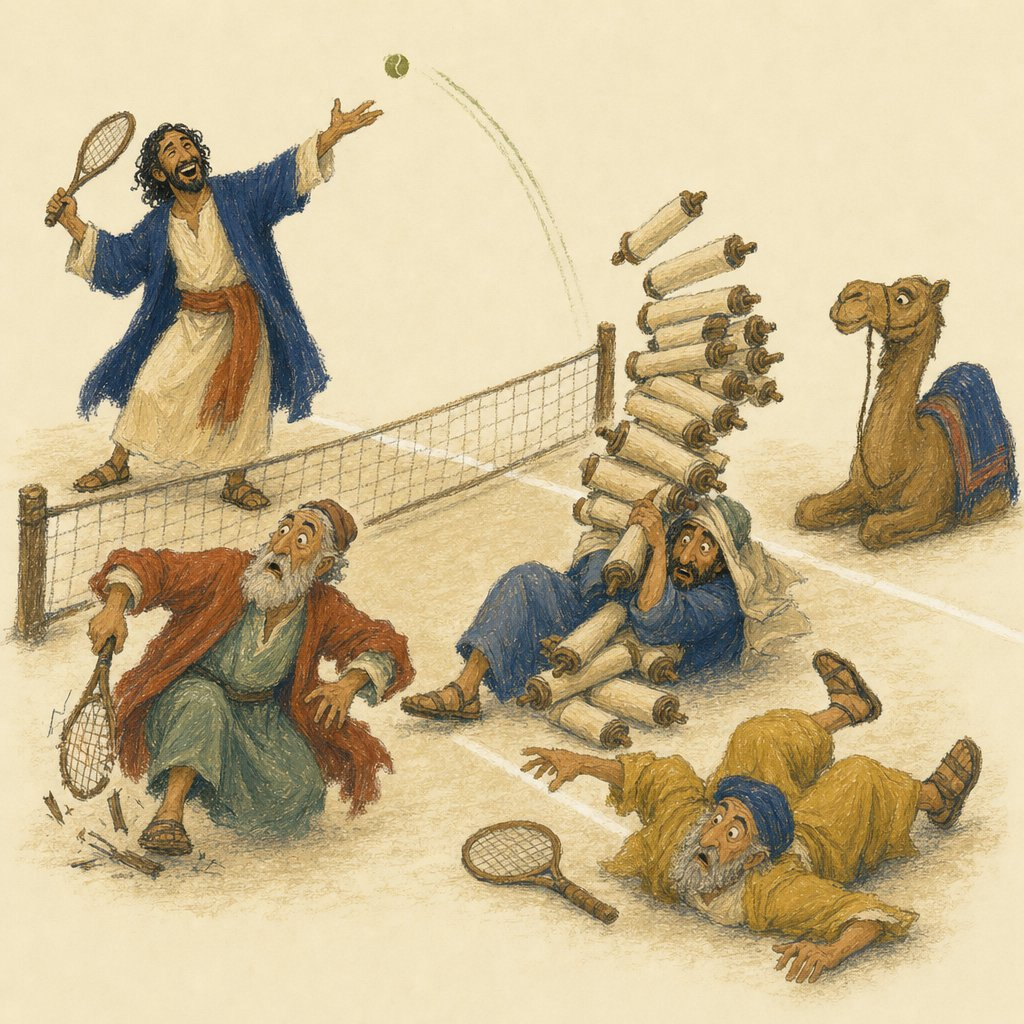
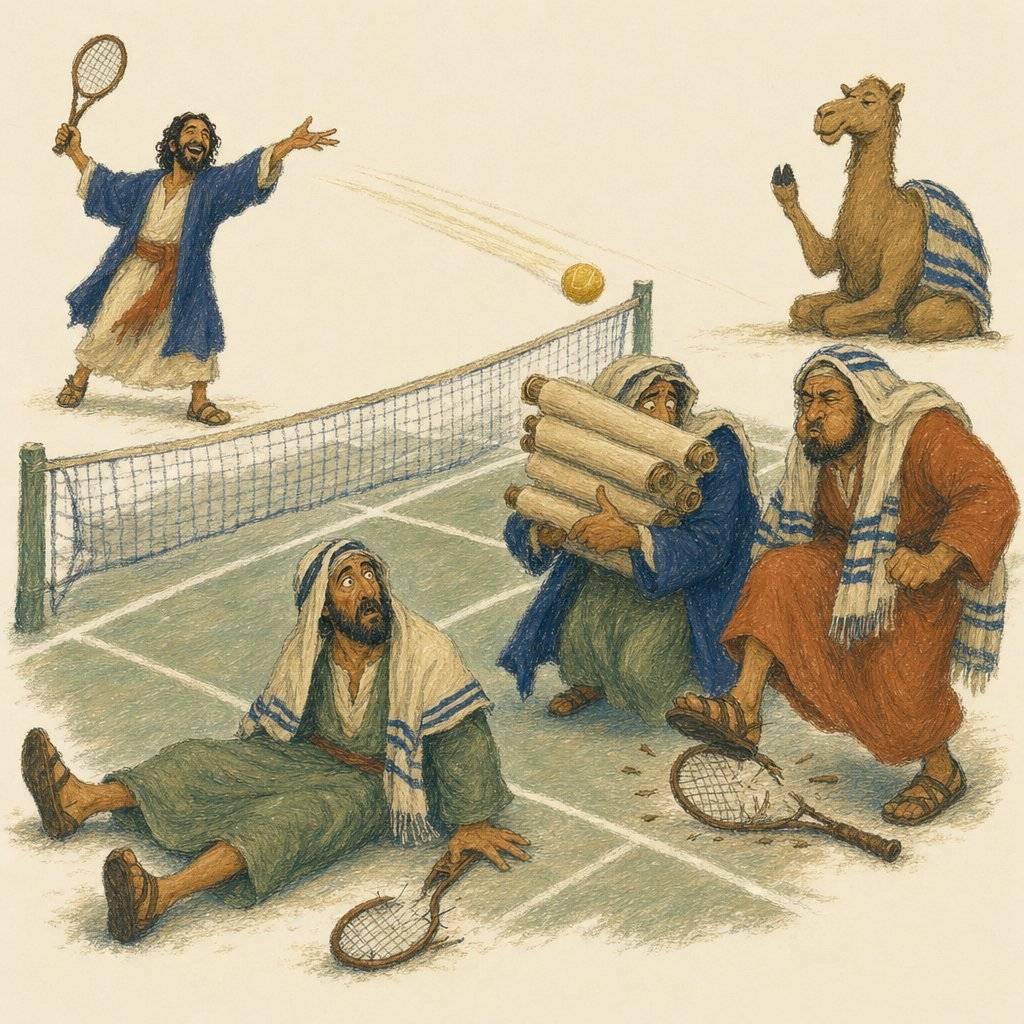
Fix reflections, anatomy and cross placement in four illustrations

diff --git a/book/index.html b/book/index.html
@@ -31,7 +31,7 @@ missing, or does any picture not fit how you tell the story?</p>
 <a href="img/02-cana-tasting.jpg"><img src="img/02-cana-tasting.jpg" loading=lazy></a>
 <div><h3>The Best Wine Ever</h3>
 <p class=meta>Full page</p>
-<p>Show the miracle through astonishment, not through Jesus beside jars. The master of the feast, a round-bellied man with a pompous moustache, has just sipped. His eyebrows shoot up, his cheeks puff and his eyes cross with delight. In his cup we glimpse his own face reflected, lit up and astonished. Around him, the servants who filled the jars with water huddle with hands over their mouths, trying not to burst out laughing. A girl peeks out from under a table. Wedding guests dance in the background. Far off at the edge, Jesus leans against a doorpost chatting, and Mary gives Him a sideways look.</p></div></div><h2>John 3 — You Come From Above!</h2><div class=card>
+<p>Show the miracle through astonishment, not through Jesus beside jars. The master of the feast, a round-bellied man with a pompous moustache, has just sipped. His eyebrows shoot up, his cheeks puff and his eyes cross with delight. The wine in his cup glows with a warm mustard-gold light. Around him, the servants who filled the jars with water huddle with hands over their mouths, trying not to burst out laughing. A girl peeks out from under a table. Wedding guests dance in the background. Far off at the edge, Jesus leans against a doorpost chatting, and Mary gives Him a sideways look.</p></div></div><h2>John 3 — You Come From Above!</h2><div class=card>
 <a href="img/03-portrait-nicodemus.jpg"><img src="img/03-portrait-nicodemus.jpg" loading=lazy></a>
 <div><h3>Nicodemus Comes at Night</h3>
 <p class=meta>Portrait</p>
@@ -39,7 +39,7 @@ missing, or does any picture not fit how you tell the story?</p>
 <a href="img/04-well-reflection.jpg"><img src="img/04-well-reflection.jpg" loading=lazy></a>
 <div><h3>If You Knew Who I Am</h3>
 <p class=meta>Full page</p>
-<p>Seen from slightly above, the round stone mouth of the well fills the lower half of the picture. The Samaritan woman leans over its rim with both hands on the stone, her water jar set down beside her, looking down into the dark water. There, her reflection looks back at her lit with a soft golden glow, open and smiling, not guarded like her real face, which is just beginning to soften in surprise. Jesus sits on the far side of the rim, elbows on his knees, watching her with warm, steady, unhurried eyes. Just two people and the well; noon heat suggested by bleached cream space. No bucket, no pouring.</p></div></div><h2>John 6 — Bread That Is Always Enough</h2><div class=card>
+<p>We look over the Samaritan woman&#x27;s shoulder from behind and slightly above: we see her back, headscarf and arms as she leans over the rim of the round stone well, hands on the stone, her water jar set down beside her. Below her, in the dark still water, her reflection looks up at us: her own face, mirrored and upside down in the frame (top of her head nearest to us, chin toward the far side), lit with a soft golden glow and smiling openly. It must read as a true reflection on the water&#x27;s surface, not a picture inside the well. On the far side of the rim sits Jesus, facing us and her, elbows on his knees, watching her with warm, steady, unhurried eyes. Just two people and the well; noon heat suggested by bleached cream space. No bucket, no pouring.</p></div></div><h2>John 6 — Bread That Is Always Enough</h2><div class=card>
 <a href="img/06-portrait-boy.jpg"><img src="img/06-portrait-boy.jpg" loading=lazy></a>
 <div><h3>The Boy with the Lunch</h3>
 <p class=meta>Portrait</p>
@@ -51,7 +51,7 @@ missing, or does any picture not fit how you tell the story?</p>
 <a href="img/07-law-tennis.jpg"><img src="img/07-law-tennis.jpg" loading=lazy></a>
 <div><h3>Law Tennis</h3>
 <p class=meta>Small picture</p>
-<p>A comic sketch of a tennis court in a dusty courtyard with a sagging net. On one side, Jesus serves an easy, relaxed ace, laughing, and the ball whizzes past. On the other side, three robed religious leaders tangle themselves trying to return it. One is stamping on his broken racket, one is buried in a stack of heavy scrolls he&#x27;s using as a racket, and one has fallen over. A camel watches from the side like a line judge. Keep it affectionate, not mocking of Jewish people.</p></div></div><h2>John 8 — The Light and No More Stones</h2><div class=card>
+<p>A comic sketch of a tennis court in a dusty courtyard with a sagging net. On one side, Jesus serves an easy, relaxed ace, laughing, and the ball whizzes past. On the other side, three robed religious leaders tangle themselves trying to return it. One is stamping on his broken racket, one is buried in a stack of heavy scrolls he&#x27;s using as a racket, and one has sat down hard on the ground, legs sticking straight out in front of him, dazed, racket still in hand. A camel watches from the side like a line judge. Keep it affectionate, not mocking of Jewish people.</p></div></div><h2>John 8 — The Light and No More Stones</h2><div class=card>
 <a href="img/08-no-condemnation.jpg"><img src="img/08-no-condemnation.jpg" loading=lazy></a>
 <div><h3>Neither Do I</h3>
 <p class=meta>Full page</p>
@@ -79,7 +79,7 @@ missing, or does any picture not fit how you tell the story?</p>
 <a href="img/19-mary-john-cross.jpg"><img src="img/19-mary-john-cross.jpg" loading=lazy></a>
 <div><h3>Look After My Mother</h3>
 <p class=meta>Full page</p>
-<p>Seen from low and slightly behind, Mary and young John stand close together at the foot of the cross. Only the bottom of the wooden cross is visible, rising out of the top of the page. John, gangly and young, has his arm wrapped around Mary&#x27;s shoulders, and she leans her head into him, her hand over her mouth. A small glow sits between them where their hands meet. The sky is wide and heavy. Show grief and love, not suffering.</p></div></div><h2>John 20 — The Empty Tomb</h2><div class=card>
+<p>Mary and young John stand close together just in front of the cross, seen from slightly below and behind. The foot of the plain wooden cross is clearly planted in a small mound of rocks and earth on the ground right behind them, its base visible; the upright beam rises out of the top of the page (the crossbar is not shown, no figure on it). John, gangly and young, has one arm wrapped around Mary&#x27;s shoulders; with his other hand he holds her hand clasped against his chest, and a small mustard-gold glow comes from exactly where their two hands are clasped together. She leans her head into his shoulder. The sky is wide and heavy. Show grief and love, not suffering.</p></div></div><h2>John 20 — The Empty Tomb</h2><div class=card>
 <a href="img/20-mariam.jpg"><img src="img/20-mariam.jpg" loading=lazy></a>
 <div><h3>Mariam!</h3>
 <p class=meta>Full page</p>
